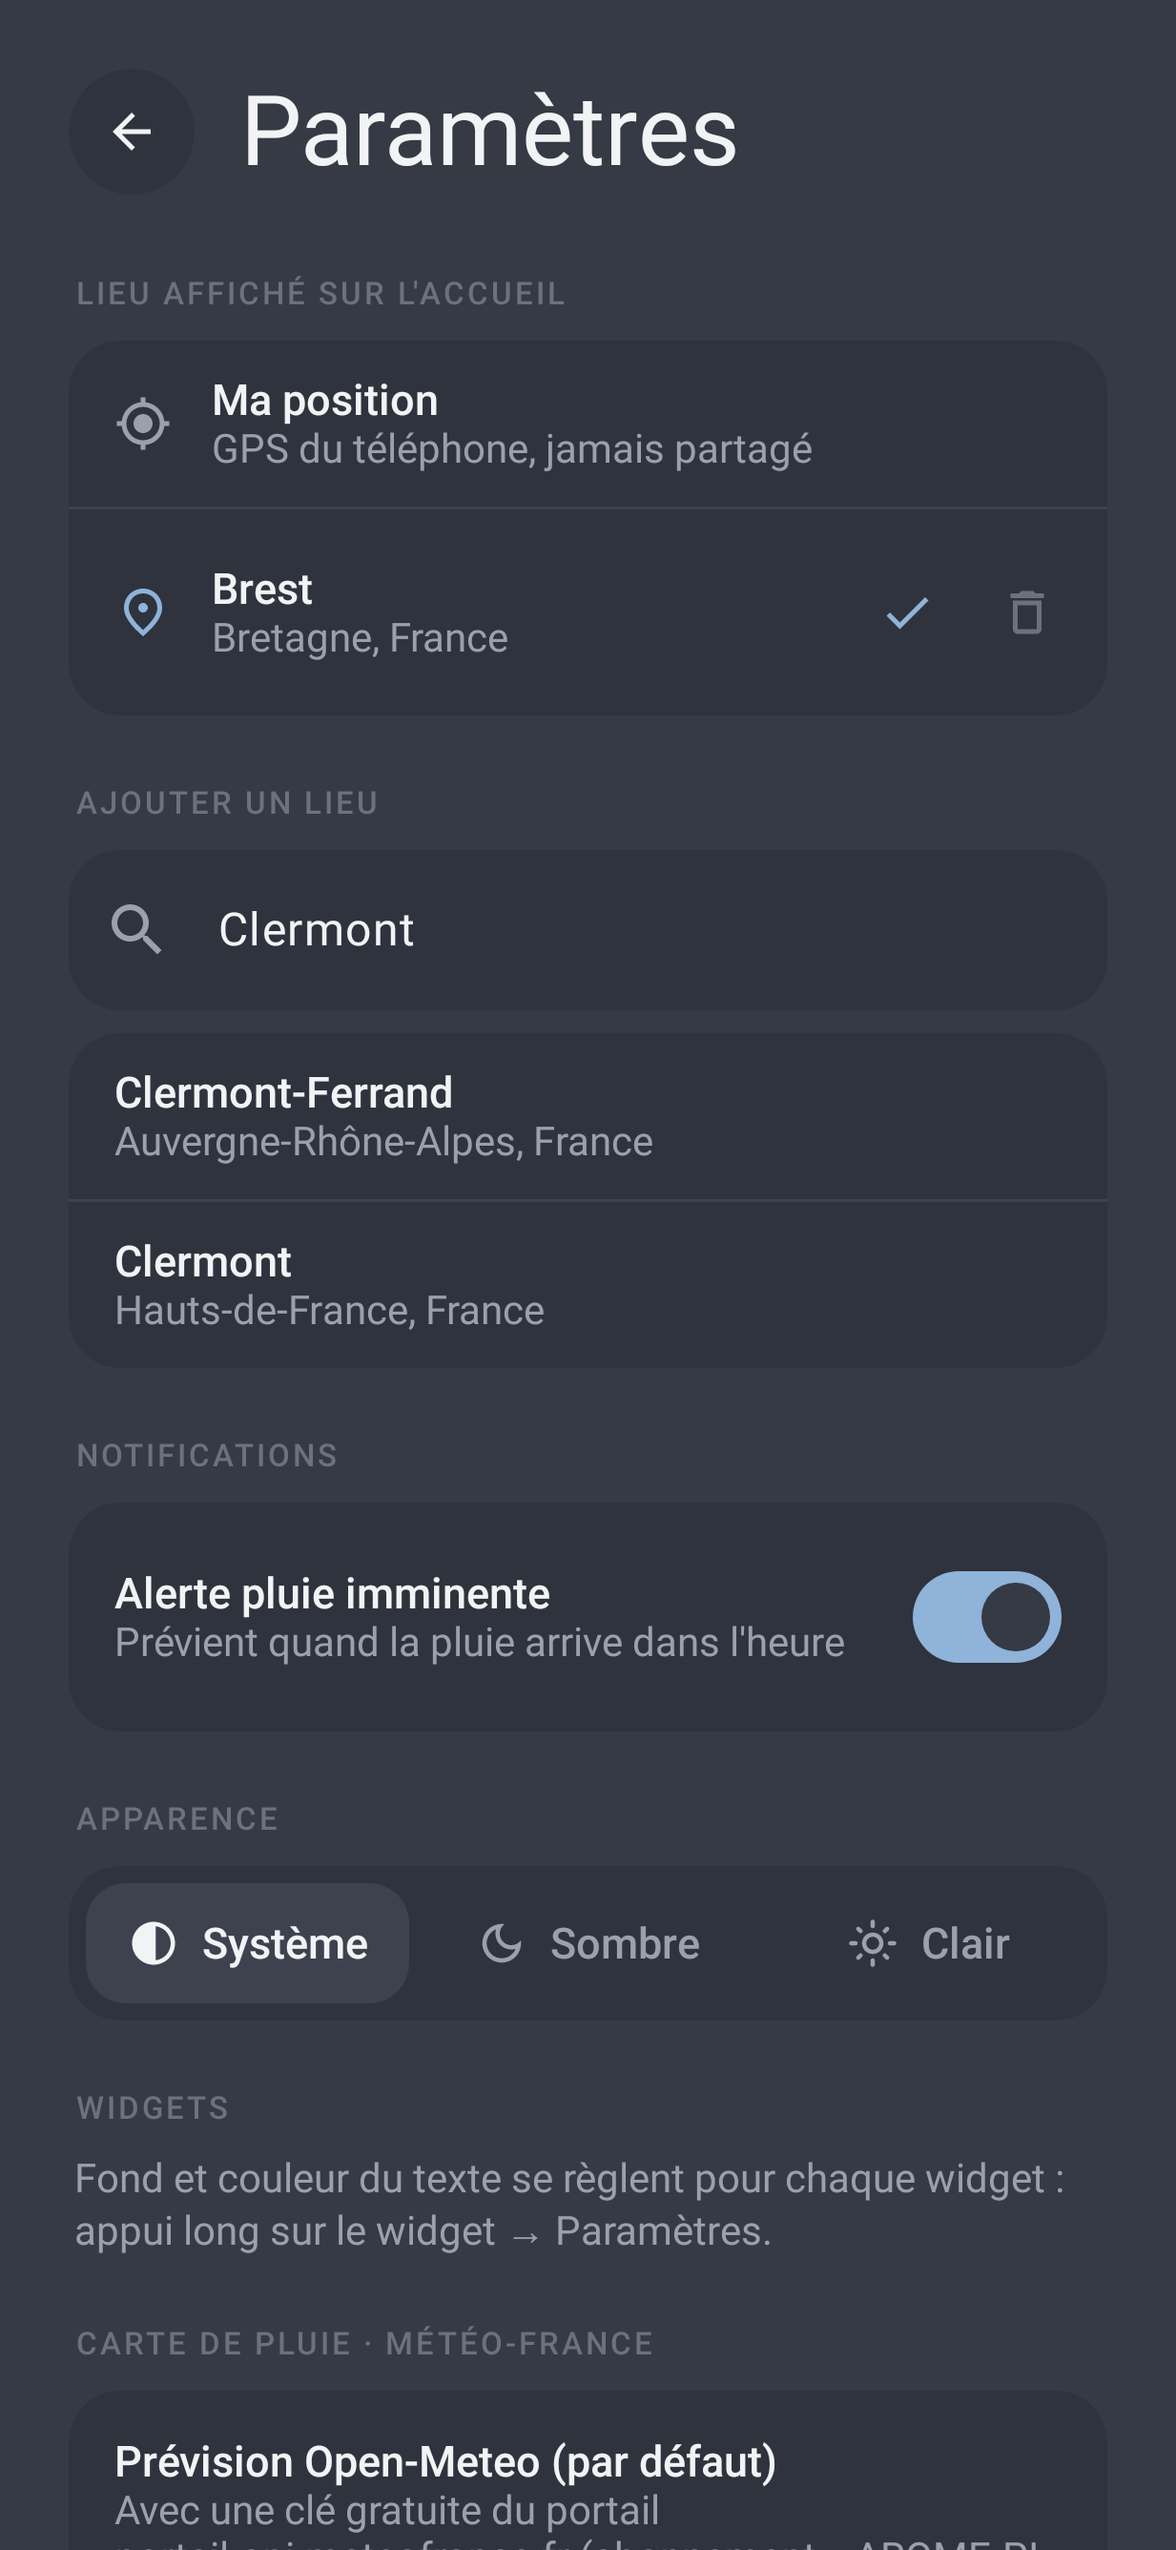
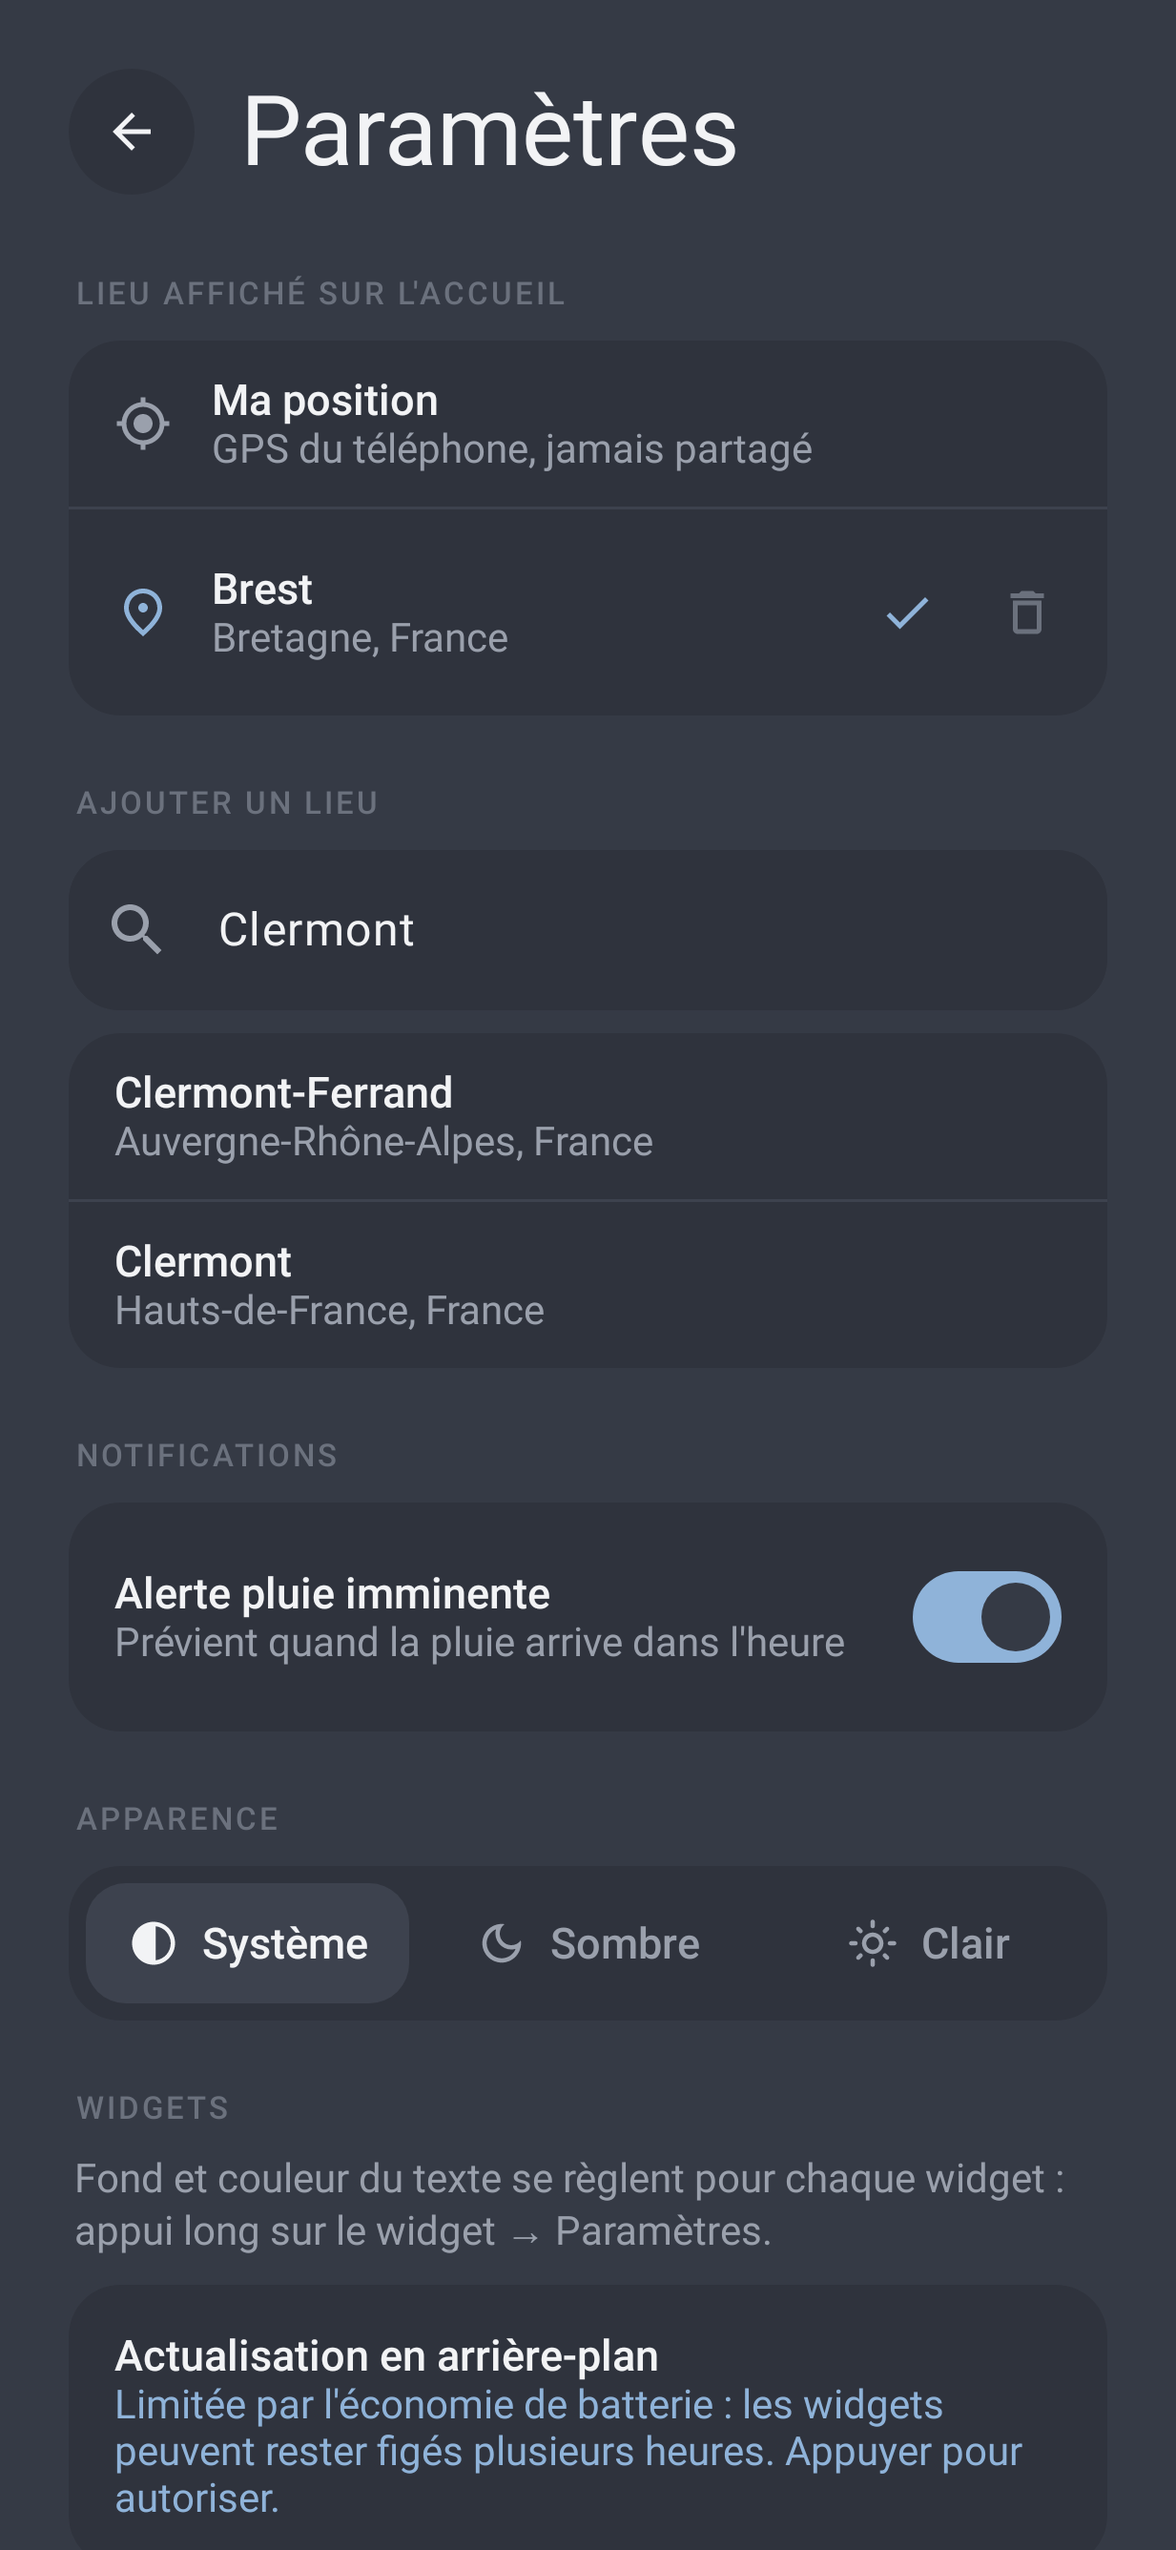
Widgets toujours à jour et carte de pluie sans gel
- décodage GeoTIFF / grilles et rendu des images de prévision hors du thread principal
- actualisation des widgets au réveil système (30 min) et à l'ouverture de l'appli si en retard
- Paramètres : autoriser l'actualisation en arrière-plan (exemption d'économie de batterie)

Claude-Session: https://claude.ai/code/session_01VhSL2CRbYz8j8n8SGyW4DJ

Changed region(s): [[0.0925, 0.9005, 0.8013, 1.0], [0.7397, 0.9936, 0.8938, 1.0]]

diff --git a/android-app/app/src/main/java/com/namm/meteo/data/repository/RainMapRepository.kt b/android-app/app/src/main/java/com/namm/meteo/data/repository/RainMapRepository.kt
@@ -10,7 +10,9 @@ import com.namm.meteo.domain.ForecastGrid
 import com.namm.meteo.domain.MapFrame
 import com.namm.meteo.domain.Place
 import com.namm.meteo.domain.RainMap
+import kotlinx.coroutines.Dispatchers
 import kotlinx.coroutines.async
+import kotlinx.coroutines.withContext
 import kotlinx.coroutines.coroutineScope
 import java.util.Locale
 
@@ -30,7 +32,7 @@ class RainMapRepository(
         center: Place,
         grid: ForecastGrid = gridAround(center),
         now: Long = System.currentTimeMillis() / 1000,
-    ): RainMap = coroutineScope {
+    ): RainMap = withContext(Dispatchers.Default) {
         val radar = async { runCatching { rainViewer.maps().toFrames() }.getOrDefault(emptyList()) }
         val forecast = async { runCatching { forecastFor(grid, now) } }
         // Radar et prévision sont indépendants : l'un peut échouer sans masquer l'autre.
@@ -67,7 +69,8 @@ class RainMapRepository(
      * (maille 1,3 km), Open-Meteo ensuite ; sinon (ou en cas d'échec) Open-Meteo seul.
      */
     suspend fun forecastFor(grid: ForecastGrid, now: Long = System.currentTimeMillis() / 1000): List<MapFrame> =
-        coroutineScope {
+        // Décodage GeoTIFF / JSON coûteux : jamais sur le thread principal (gel de l'appli).
+        withContext(Dispatchers.Default) {
             val key = aromeKey()?.takeIf { it.isNotBlank() && AromePiSource.covers(grid) }
             val aromeFrames = key?.let { async { runCatching { arome.forecast(it, grid, now) }.getOrDefault(emptyList()) } }
             // Avec AROME-PI, Open-Meteo ne sert qu'au-delà de +6 h : une grille grossière suffit
@@ -87,14 +90,14 @@ class RainMapRepository(
      * Pluie actuelle sur [grid] pour le widget carte : une seule image AROME-PI si une clé est
      * active (1-2 requêtes), sinon Open-Meteo sur une grille grossière (80 points) si [allowOpenMeteo].
      */
-    suspend fun currentFrame(grid: ForecastGrid, allowOpenMeteo: Boolean, now: Long = System.currentTimeMillis() / 1000): MapFrame.Forecast? {
+    suspend fun currentFrame(grid: ForecastGrid, allowOpenMeteo: Boolean, now: Long = System.currentTimeMillis() / 1000): MapFrame.Forecast? = withContext(Dispatchers.Default) {
         val key = aromeKey()?.takeIf { it.isNotBlank() && AromePiSource.covers(grid) }
         if (key != null) {
             runCatching { arome.forecast(key, grid, now, maxFrames = 1) }.getOrNull()
-                ?.filterIsInstance<MapFrame.Forecast>()?.firstOrNull()?.let { return it }
+                ?.filterIsInstance<MapFrame.Forecast>()?.firstOrNull()?.let { return@withContext it }
         }
-        if (!allowOpenMeteo) return null
-        return openMeteoFrames(coarse(grid), now).filterIsInstance<MapFrame.Forecast>().firstOrNull()
+        if (!allowOpenMeteo) return@withContext null
+        openMeteoFrames(coarse(grid), now).filterIsInstance<MapFrame.Forecast>().firstOrNull()
     }
 
     private fun cacheFrames(grid: ForecastGrid, frames: List<MapFrame>, now: Long) {

diff --git a/android-app/app/src/main/java/com/namm/meteo/ui/settings/SettingsScreen.kt b/android-app/app/src/main/java/com/namm/meteo/ui/settings/SettingsScreen.kt
@@ -223,6 +223,7 @@ fun SettingsContent(
             style = MaterialTheme.typography.bodyMedium,
             modifier = Modifier.padding(horizontal = 2.dp),
         )
+        BackgroundRefreshCard()
 
         Spacer(Modifier.height(24.dp))
         SectionLabel("CARTE DE PLUIE · MÉTÉO-FRANCE")
@@ -439,3 +440,46 @@ private fun SwitchRow(icon: ImageVector?, title: String, subtitle: String, check
     }
 }
 
+
+/**
+ * Android (surtout Samsung, Xiaomi…) retarde fortement les tâches de fond des applis « optimisées » :
+ * les widgets restent alors figés. Propose de lever l'optimisation de batterie pour l'appli.
+ */
+@Composable
+private fun BackgroundRefreshCard() {
+    val context = androidx.compose.ui.platform.LocalContext.current
+    val power = context.getSystemService(android.os.PowerManager::class.java)
+    var unrestricted by androidx.compose.runtime.remember {
+        androidx.compose.runtime.mutableStateOf(power.isIgnoringBatteryOptimizations(context.packageName))
+    }
+    androidx.lifecycle.compose.LifecycleResumeEffect(Unit) {
+        unrestricted = power.isIgnoringBatteryOptimizations(context.packageName)
+        onPauseOrDispose { }
+    }
+    Spacer(Modifier.height(10.dp))
+    Card {
+        Row(
+            Modifier.fillMaxWidth().clickable(enabled = !unrestricted) {
+                runCatching {
+                    context.startActivity(
+                        android.content.Intent(
+                            android.provider.Settings.ACTION_REQUEST_IGNORE_BATTERY_OPTIMIZATIONS,
+                            android.net.Uri.parse("package:${context.packageName}"),
+                        ),
+                    )
+                }
+            }.padding(16.dp),
+            verticalAlignment = Alignment.CenterVertically,
+        ) {
+            Column(Modifier.weight(1f)) {
+                Text("Actualisation en arrière-plan", color = Slate.Primary, style = MaterialTheme.typography.titleMedium)
+                Text(
+                    if (unrestricted) "Autorisée : les widgets se mettent à jour toutes les 15 min"
+                    else "Limitée par l'économie de batterie : les widgets peuvent rester figés plusieurs heures. Appuyer pour autoriser.",
+                    color = if (unrestricted) Slate.Secondary else Slate.Rain,
+                    style = MaterialTheme.typography.bodyMedium,
+                )
+            }
+        }
+    }
+}

diff --git a/android-app/app/src/main/java/com/namm/meteo/widget/Widgets.kt b/android-app/app/src/main/java/com/namm/meteo/widget/Widgets.kt
@@ -84,6 +84,12 @@ abstract class MeteoWidgetReceiver : GlanceAppWidgetReceiver() {
         super.onDeleted(context, appWidgetIds)
         WidgetConfigStore.delete(context, appWidgetIds)
     }
+
+    /** Réveil système (≈ 30 min, même en veille) : relance une actualisation si le travail périodique a pris du retard. */
+    override fun onUpdate(context: Context, appWidgetManager: android.appwidget.AppWidgetManager, appWidgetIds: IntArray) {
+        super.onUpdate(context, appWidgetManager, appWidgetIds)
+        Widgets.refreshIfStale(context)
+    }
 }
 
 class MiniWidgetReceiver : MeteoWidgetReceiver() { override val glanceAppWidget = MiniWidget() }
@@ -160,11 +166,17 @@ object Widgets {
     suspend fun hasMapWidget(context: Context) =
         GlanceAppWidgetManager(context).getGlanceIds(MapWidget::class.java).isNotEmpty()
 
+    /** Actualisation complète si la dernière date de plus de 10 min (ouverture de l'appli, réveil des widgets). */
+    fun refreshIfStale(context: Context) {
+        val last = context.getSharedPreferences("worker", Context.MODE_PRIVATE).getLong("last_run", 0)
+        if (System.currentTimeMillis() - last > 10 * 60_000L) refreshNow(context, replace = false)
+    }
+
     /** Lance immédiatement une actualisation complète (prévision + image carte). */
-    fun refreshNow(context: Context) {
+    fun refreshNow(context: Context, replace: Boolean = true) {
         WorkManager.getInstance(context).enqueueUniqueWork(
             "refresh-now",
-            ExistingWorkPolicy.REPLACE,
+            if (replace) ExistingWorkPolicy.REPLACE else ExistingWorkPolicy.KEEP,
             OneTimeWorkRequestBuilder<RefreshWorker>().build(),
         )
     }

diff --git a/android-app/app/src/main/java/com/namm/meteo/ui/map/MapViewModel.kt b/android-app/app/src/main/java/com/namm/meteo/ui/map/MapViewModel.kt
@@ -75,6 +75,7 @@ class MapViewModel(
             // Zone déjà vue récemment : réutilisée sans appel réseau.
             rainMaps.cachedFor(bounds)?.let { (grid, forecast) ->
                 val map = s.map.withForecast(grid, forecast)
+                ForecastBitmaps.prepare(map.frames)
                 _state.value = s.copy(map = map, index = s.index.coerceIn(0, map.frames.lastIndex))
                 return@launch
             }
@@ -86,6 +87,7 @@ class MapViewModel(
                 cur.copy(refreshing = false)
             } else {
                 val map = cur.map.withForecast(grid, forecast)
+                ForecastBitmaps.prepare(map.frames)
                 cur.copy(map = map, index = cur.index.coerceIn(0, map.frames.lastIndex), refreshing = false)
             }
         }
@@ -97,6 +99,7 @@ class MapViewModel(
         _state.value = runCatching {
             val place = place ?: forecasts.resolvePlace()
             val map = rainMaps.load(place, viewport?.let(RainMapRepository::gridFor) ?: RainMapRepository.gridAround(place))
+            ForecastBitmaps.prepare(map.frames) // images calculées hors du thread principal
             // On reste sur « maintenant » si l'utilisateur y était, sinon sur la même heure.
             val index = when {
                 previous == null || previous.index == previous.map.nowIndex -> map.nowIndex

diff --git a/android-app/app/src/main/java/com/namm/meteo/ui/map/RainOverlays.kt b/android-app/app/src/main/java/com/namm/meteo/ui/map/RainOverlays.kt
@@ -153,7 +153,7 @@ fun rainColor(mmPer15: Double): Int? {
 class ForecastGridOverlay : Overlay() {
     var frame: MapFrame.Forecast? = null
         set(value) {
-            if (value !== field) bitmap = value?.let { renderForecast(it.grid, it.values) }
+            if (value !== field) bitmap = value?.let(ForecastBitmaps::get)
             field = value
         }
     private var bitmap: Bitmap? = null
@@ -187,6 +187,21 @@ class ForecastGridOverlay : Overlay() {
         val rect = RectF(a.x.toFloat(), a.y.toFloat(), b.x.toFloat(), b.y.toFloat())
         canvas.drawBitmap(bmp, null, rect, paint)
         canvas.drawRect(rect, outline) // limite de la zone de prévision
+    }
+}
+
+/**
+ * Images de prévision déjà calculées (une par pas de temps) : préparées en arrière-plan par
+ * [prepare] pour que l'affichage et l'animation ne calculent rien sur le thread principal.
+ */
+object ForecastBitmaps {
+    private val cache = java.util.WeakHashMap<MapFrame.Forecast, Bitmap>()
+
+    fun get(frame: MapFrame.Forecast): Bitmap =
+        synchronized(cache) { cache[frame] } ?: renderForecast(frame.grid, frame.values).also { synchronized(cache) { cache[frame] = it } }
+
+    suspend fun prepare(frames: List<MapFrame>) = withContext(Dispatchers.Default) {
+        frames.filterIsInstance<MapFrame.Forecast>().forEach { get(it) }
     }
 }
 

diff --git a/android-app/app/src/main/java/com/namm/meteo/work/RefreshWorker.kt b/android-app/app/src/main/java/com/namm/meteo/work/RefreshWorker.kt
@@ -28,6 +28,8 @@ class RefreshWorker(context: Context, params: WorkerParameters) : CoroutineWorke
 
     override suspend fun doWork(): Result {
         val app = applicationContext as MeteoApp
+        applicationContext.getSharedPreferences("worker", Context.MODE_PRIVATE).edit()
+            .putLong("last_run", System.currentTimeMillis()).apply()
         val settings = app.settings.current()
         val result = runCatching { app.forecastRepository.load() }.getOrNull()
         if (result != null && Widgets.hasMapWidget(applicationContext)) {

diff --git a/android-app/app/src/main/java/com/namm/meteo/MainActivity.kt b/android-app/app/src/main/java/com/namm/meteo/MainActivity.kt
@@ -54,6 +54,8 @@ class MainActivity : ComponentActivity() {
         super.onResume()
         // Retour au premier plan : nouvelle version publiée entre-temps ? (au plus toutes les 30 min)
         (application as MeteoApp).updates.checkIfDue()
+        // Widgets en retard (veille Android) : on les remet à jour dès que l'appli est ouverte.
+        com.namm.meteo.widget.Widgets.refreshIfStale(this)
     }
 
     override fun onCreate(savedInstanceState: Bundle?) {

diff --git a/CLAUDE.md b/CLAUDE.md
@@ -58,7 +58,7 @@ echo "robolectricRepo=https://maven-central.storage-download.googleapis.com/mave
 - Tests : fixtures dans `app/src/test/resources/` (`forecast.json`, `geocoding.json` réelles — bloc `hourly` de `forecast.json` complété ; `grid.json` au format multi-points) ; tout nouvel écran a un test Roborazzi (`ScreenshotTest`, application neutre `android.app.Application` pour éviter WorkManager).
 - Accueil = position GPS par défaut ; lieux préenregistrés gérés dans Paramètres (`SettingsStore`). La carte utilise le même lieu que l'accueil.
 - Carte : Open-Meteo par défaut ; AROME-PI (Météo-France) si une clé est enregistrée dans Paramètres. Aucune clé dans le code ni le dépôt.
-- Widgets (Glance, `widget/`) : Mini 2×1, Pluie 4×1, Journée 4×2, 12 h 4×2 (12 colonnes = 2 demi-lignes de 6), Semaine 4×3, Carte de pluie 4×3 (image ≈ 50 km au format réel du widget, dessinée par `WidgetMapRenderer` dans `RefreshWorker` toutes les 15 min). Rendus testés dans `WidgetScreenshotTest` (GlanceRemoteViews → PNG). Réglages propres à chaque widget (heures affichées 6/12 pour Journée et 12 h, couleur du fond Auto/Clair/Sombre, opacité Opaque/70 %/40 %/Transparent, texte Auto/Blanc/Foncé) via `WidgetConfigActivity` (pose du widget ou appui long → Paramètres), stockés par appWidgetId dans `WidgetConfigStore`. Design commun : en-tête météo actuelle + date/heure (TextClock via `AndroidRemoteViews`, dans une boîte de largeur fixe), textes de prévision en gras, pourcentages dans la couleur du texte (pas en bleu), mise en page compacte collée en haut (TopStart, sauf Mini/Pluie centrés), prévisions horaires en gras 14–17 sp. Une ligne Glance accepte au plus 10 enfants. En test, la vue doit être attachée à une activité pour que les TextClock s'affichent. Les classes de widgets sont protégées de la fusion R8 (`proguard-rules.pro`, vérifié en CI) : les tests tournent en debug, non minifié, et ne voient pas ce genre de bug.
+- Widgets (Glance, `widget/`) : Mini 2×1, Pluie 4×1, Journée 4×2, 12 h 4×2 (12 colonnes = 2 demi-lignes de 6), Semaine 4×3, Carte de pluie 4×3 (image ≈ 50 km au format réel du widget, dessinée par `WidgetMapRenderer` dans `RefreshWorker` toutes les 15 min). Rendus testés dans `WidgetScreenshotTest` (GlanceRemoteViews → PNG). Réglages propres à chaque widget (heures affichées 6/12 pour Journée et 12 h, couleur du fond Auto/Clair/Sombre, opacité Opaque/70 %/40 %/Transparent, texte Auto/Blanc/Foncé) via `WidgetConfigActivity` (pose du widget ou appui long → Paramètres), stockés par appWidgetId dans `WidgetConfigStore`. Design commun : en-tête météo actuelle + date/heure (TextClock via `AndroidRemoteViews`, dans une boîte de largeur fixe), textes de prévision en gras, pourcentages dans la couleur du texte (pas en bleu), mise en page compacte collée en haut (TopStart, sauf Mini/Pluie centrés), prévisions horaires en gras 14–17 sp. Une ligne Glance accepte au plus 10 enfants. En test, la vue doit être attachée à une activité pour que les TextClock s'affichent. Les classes de widgets sont protégées de la fusion R8 (`proguard-rules.pro`, vérifié en CI) : les tests tournent en debug, non minifié, et ne voient pas ce genre de bug. Fraîcheur : worker 15 min + `onUpdate` système (30 min) + ouverture de l’appli → `Widgets.refreshIfStale` ; carte « Actualisation en arrière-plan » (exemption batterie) dans Paramètres. Carte de pluie : décodage et rendu des images hors du thread principal (`Dispatchers.Default`, `ForecastBitmaps`).
 - Navigation : barre flottante en bas de l'accueil (carte de pluie, paramètres) ; actualisation de l'accueil en tirant vers le bas.
 
 ## Release & signature
